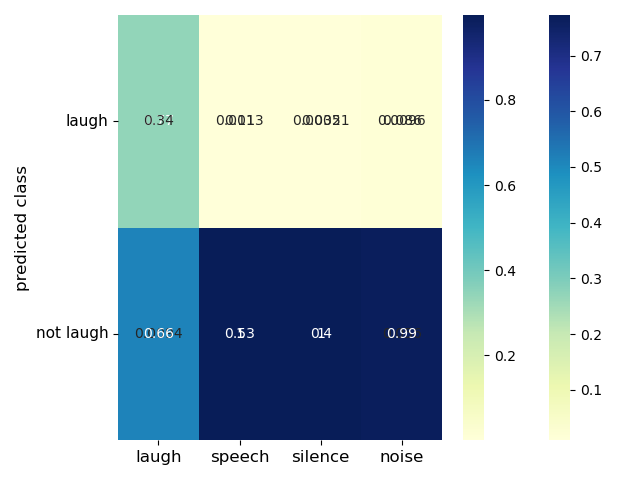
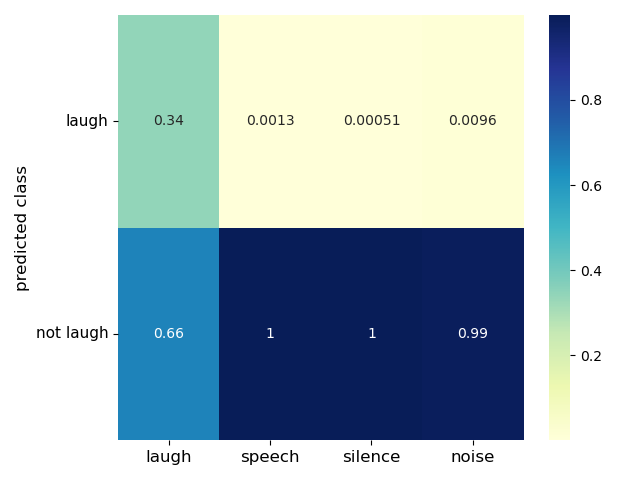
dw conf matrix by row and by col

diff --git a/visualise.py b/visualise.py
@@ -278,6 +278,8 @@ def plot_conf_matrix_laughVSnotlaugh(df_path, split, name='conf_matrix', thresho
     Path(plot_file).parent.mkdir(exist_ok=True, parents=True)
     plt.savefig(plot_file)
 
+    plt.clf() # clear existing plots
+
     hm = sns.heatmap(conf_ratio_by_cols, yticklabels=['laugh', 'not laugh'], annot=show_annotations, cmap="YlGnBu")
     hm.set_yticklabels(['laugh', 'not laugh'], size = 11)
     hm.set_xticklabels(labels, size = 12)
